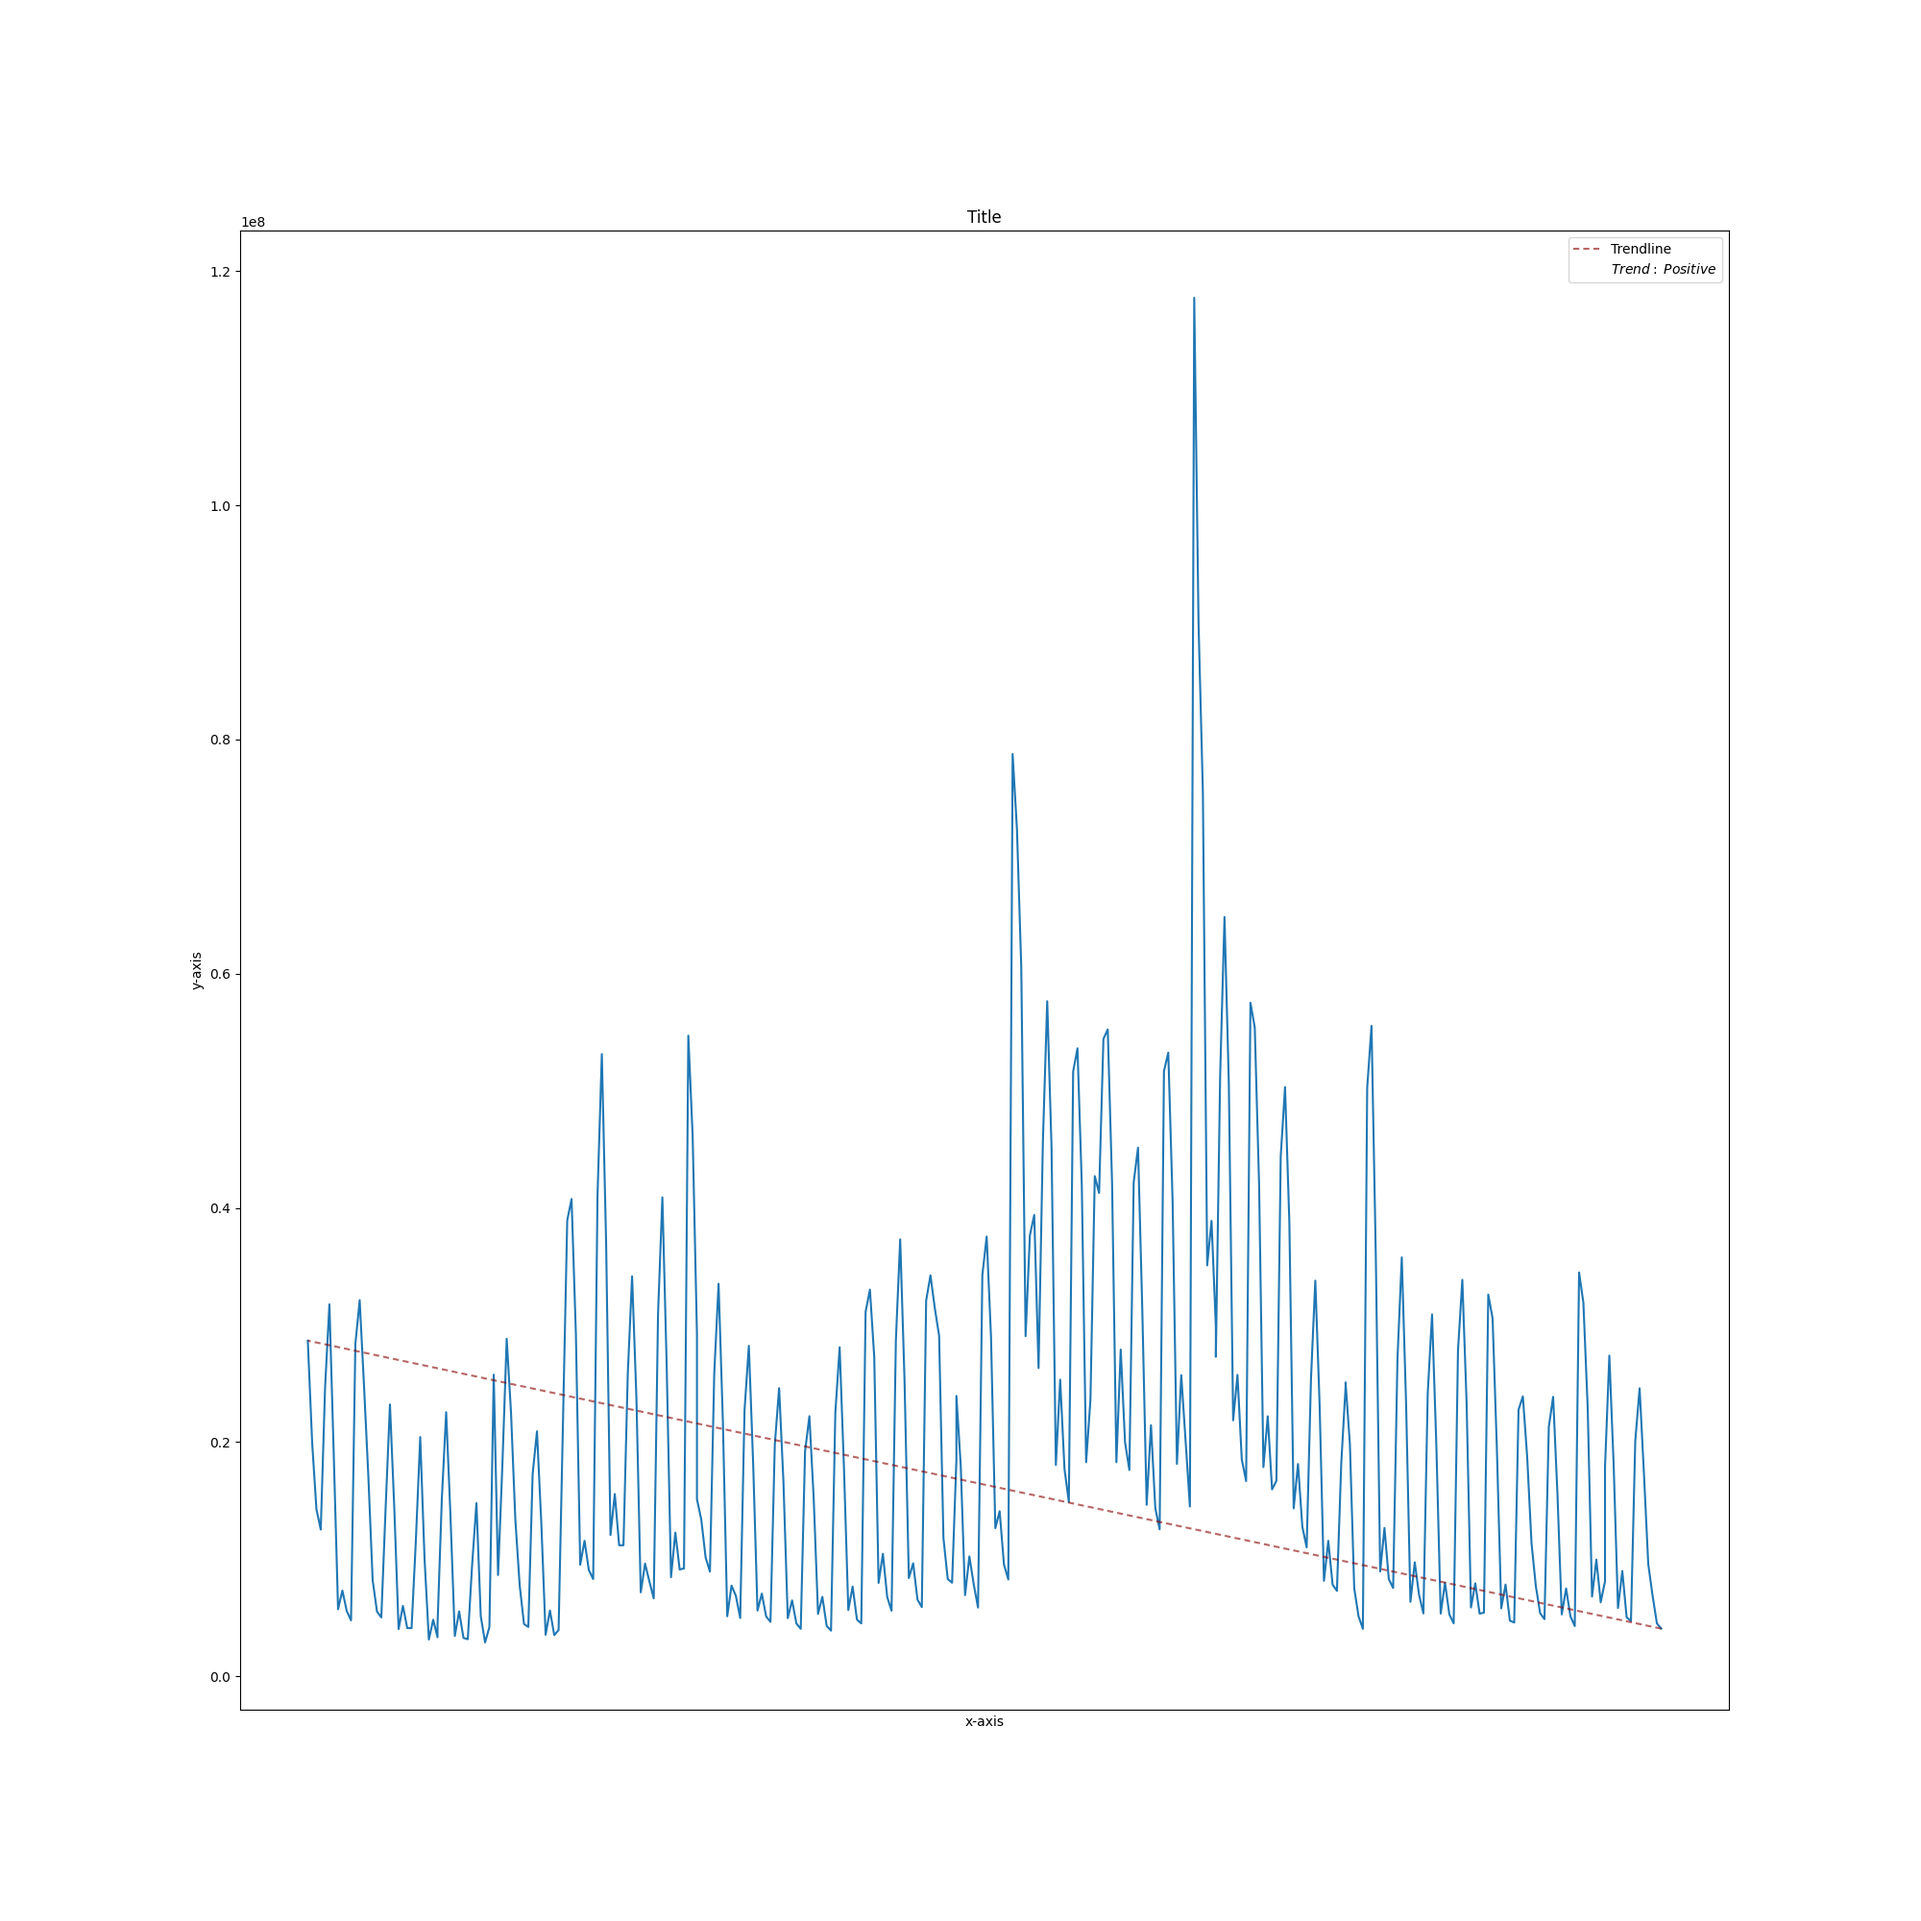
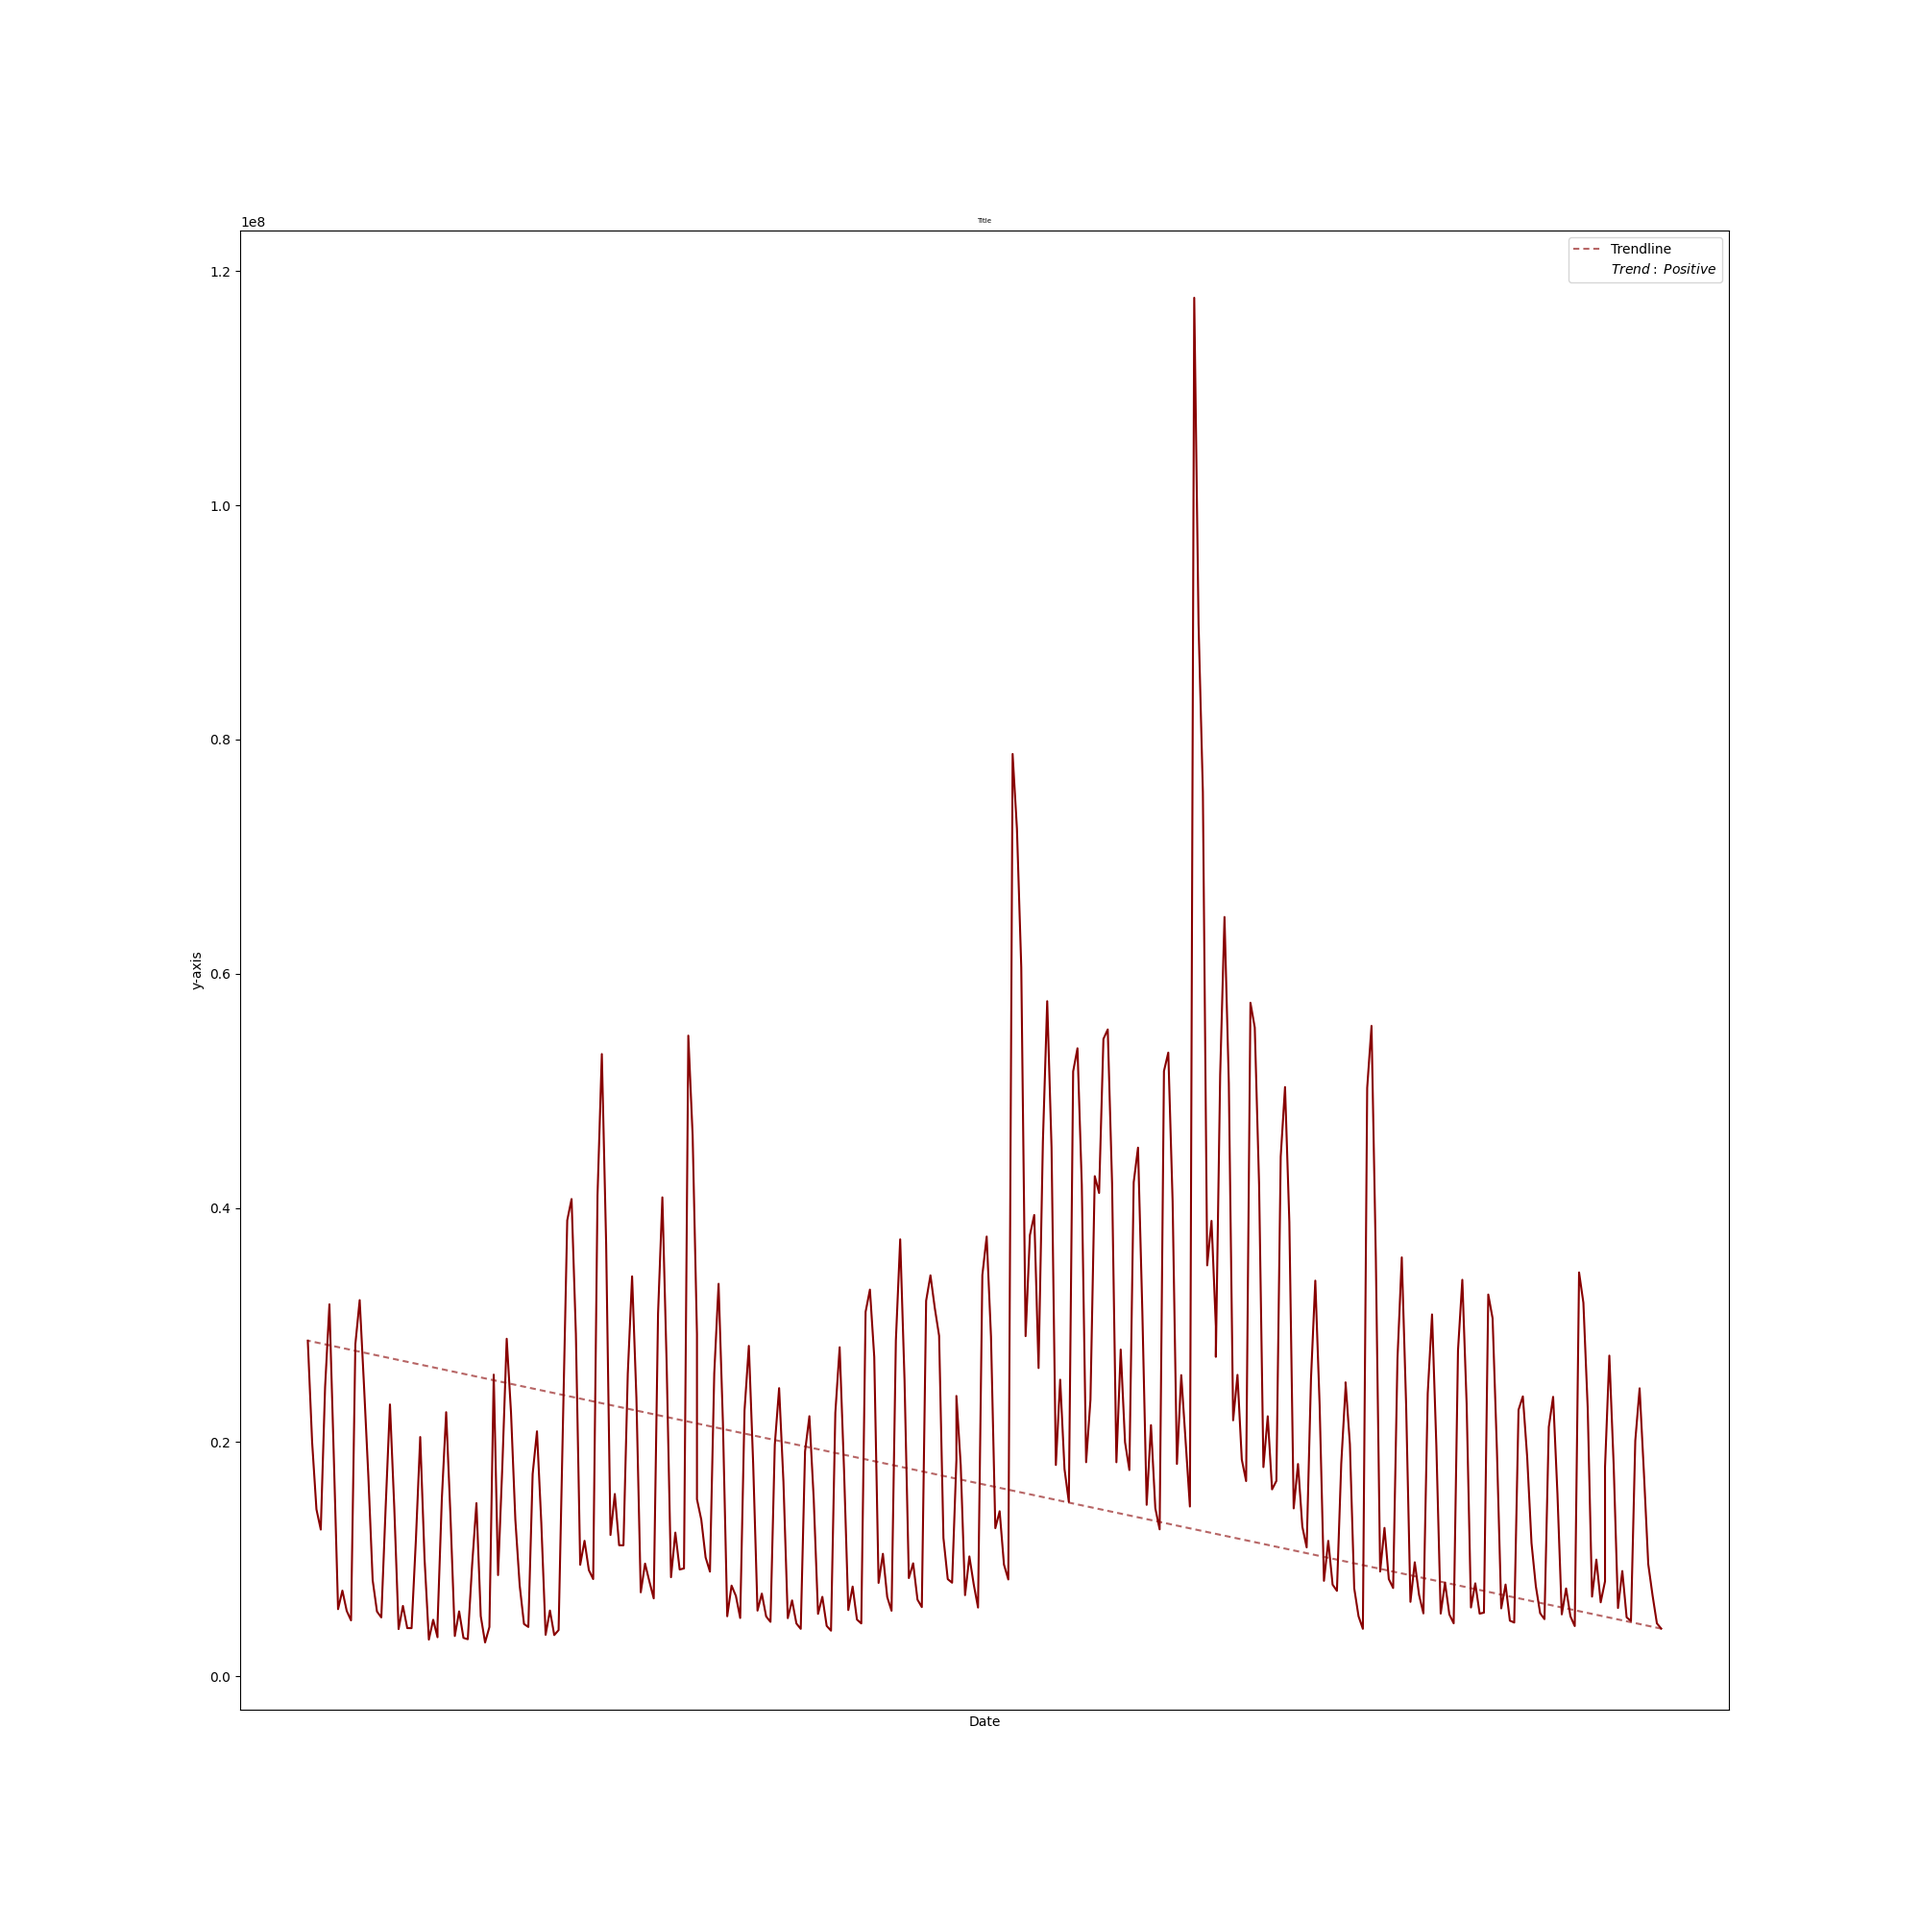
Done

Changed region(s): [[0.155, 0.465, 0.868, 0.868]]

diff --git a/templates/data_analyzer.html b/templates/data_analyzer.html
@@ -18,16 +18,14 @@
                 <button class="button" height=100% width=2*height id="submitButton" type="button">Submit</button>
             </div>
             </div>
-            <script>
+            <<script>
                 document.getElementById('submitButton').addEventListener('click', () => {
                     const inputField = document.getElementById('URL');
-                    const URL = inputField.value.trim(); // Get and trim input value
-
+                    const URL = inputField.value.trim(); 
                     if (URL === "") {
-                        alert("No value has been entered");
+                        alert("No value has been entered.");
                         return;
                     }
-
                     fetch('/store', {
                         method: 'POST',
                         headers: {
@@ -35,35 +33,37 @@
                         },
                         body: JSON.stringify({ value: URL }),
                     })
-                    .then(response => response.json())
-                    .then(data => {
-                        if (data.graph_1 && data.graph_2 && data.graph_3) {
-                            document.querySelector('.column1 img').src = data.graph_1;
-                            document.querySelector('.column2 img').src = data.graph_2;
-                            document.querySelector('.column3 img').src = data.graph_3;
-                            inputField.value = ''; // Clear input field
-                        } else {
-                            alert("Error generating graphs");
-                        }
-                    })
-                    .catch(error => {
-                        console.error("Error:", error);
-                        alert("An error occurred while processing the request.");
-                    });
+                        .then(response => response.json())
+                        .then(data => {
+                            if (data.graph_1 && data.graph_2 && data.graph_3) {
+                                const timestamp = new Date().getTime(); // Cache-busting timestamp
+                                document.querySelector('.column1 img').src = data.graph_1 + '?t=' + timestamp;
+                                document.querySelector('.column2 img').src = data.graph_2 + '?t=' + timestamp;
+                                document.querySelector('.column3 img').src = data.graph_3 + '?t=' + timestamp;
+            
+                                inputField.value = ''; 
+                            } else {
+                                alert("Error generating graphs. Please try again.");
+                            }
+                        })
+                        .catch(error => {
+                            console.error("Error:", error);
+                            alert("An error occurred while processing the request. Please check your URL or try again later.");
+                        });
                 });
             </script>
 
             <div class="row">
                 <div class="column1">
-                    <h2 class="datatitles" style="font-size: 35px">Table 1</h2>
+                    <h2 class="datatitles" style="font-size: 35px">Line Graph</h2>
                     <img class="data" width=90% height=width src="{{ url_for('static', filename='images/placeholder.jpg') }}">
                 </div>
                 <div class="column2">
-                    <h2 class="datatitles" style="font-size: 35px">Table 2</h2>
+                    <h2 class="datatitles" style="font-size: 35px">Pie Chart</h2>
                     <img class="data" width=90% height=width src="{{ url_for('static', filename='images/placeholder.jpg') }}">
                 </div>
                 <div class="column3">
-                    <h2 class="datatitles" style="font-size: 35px">Table 3</h2>
+                    <h2 class="datatitles" style="font-size: 35px">Scatter Plot</h2>
                     <img class="data" width=90% height=width src="{{ url_for('static', filename='images/placeholder.jpg') }}">
                 </div>
             </div>

diff --git a/graph_maker.py b/graph_maker.py
@@ -4,6 +4,14 @@ from data_analysis import data
 mydict = {"Jan": 1, "Feb": 2, "Mar": 3, "Apr": 4, "May": 5, "Jun": 6, 
           "Jul": 7, "Aug": 8, "Sep": 9, "Oct": 10, "Nov": 11, "Dec": 12}
 
+import os
+
+def clear_old_graphs():
+    folder = "static/images/"
+    for file_name in os.listdir(folder):
+        if file_name.startswith("graph_") and file_name.endswith(".png"):
+            os.remove(os.path.join(folder, file_name))
+
 def trends(pList): # assumes that you have a list of percentages (like apples/farm) and tells you if the trend is positive, negative or "Stable" (not sure if thats the right word)
     n=(len(pList))-1
     if pList[n] > pList[0]:
@@ -18,14 +26,19 @@ def trends(pList): # assumes that you have a list of percentages (like apples/fa
 def analysis_1(np,plt,numDict,yearList,graph_title="Money x Time",x_title="Date",y_title=""): #assumes that you have a dictionary with the two things you want to compare [i.e apples(value) per farm (key)] LISTS MUST BE PROPORTIONAL!!
     monthsAsNumsList = []
     monthslist = list(numDict.keys())
-    for month in monthslist:
-        month = str(month)
-        month = month.split(" ")
-        shortMonth = month[0]    
-        num =int(month[1])
-        monthsAsNumsList.append(mydict[shortMonth] * 30 + num)
-    x1=monthsAsNumsList
-        
+    try:
+        for month in monthslist:
+            month = str(month)
+            month = month.split(" ")
+            shortMonth = month[0]    
+            num =int(month[1])
+            monthsAsNumsList.append(mydict[shortMonth] * 30 + num)
+        x1=monthsAsNumsList
+    except:
+        newlist = []
+        for year in yearList:
+            newlist.append(int(year))
+        x1 = newlist
     pDict=dict()
     pList=[]
     yearCounter=0
@@ -38,9 +51,10 @@ def analysis_1(np,plt,numDict,yearList,graph_title="Money x Time",x_title="Date"
     y1=[]
     for value in pDict.values():
         y1.append(value)
+    
     change_x=(x1[1]-x1[0])
     plt.figure(figsize=(20, 20))
-    plt.plot(x1,y1)
+    plt.plot(x1,y1, color=((120/225),0,0,1))
     x2=[x1[0],x1[(len(x1))-1]] 
     y2=[y1[0],y1[(len(x1))-1]] 
     plt.plot(x2, y2, linestyle='-', color=((120/225),0,0,0.6), dashes=[3, 2], label="Trendline")
@@ -48,16 +62,16 @@ def analysis_1(np,plt,numDict,yearList,graph_title="Money x Time",x_title="Date"
 
     plt.legend()
     plt.xticks(np.arange(x1[0],(x1[len(x1)-1]+change_x), 1.0))
-    plt.xlabel(x_title)
-    plt.ylabel(y_title)
-    plt.title(graph_title)
+    plt.xlabel(x_title, fontsize=10)
+    plt.ylabel(y_title, fontsize=10)
+    plt.title(graph_title, fontsize=5)
     
 
     final_plot=plt.savefig("static/images/graph_1.png", transparent=False)
     return
 #-----------------------------------------------
 #Table 2 GOOD!!
-def analysis_2(plt,category,Chart_title="Title"): #assuming the category is individual and in a list
+def analysis_2(np,plt,category,Chart_title="Title"): #assuming the category is individual and in a list
     petDict={}
     petDict_percentages={}
     animal_list=[]
@@ -74,31 +88,41 @@ def analysis_2(plt,category,Chart_title="Title"): #assuming the category is indi
         animal_list.append(single_animal)
         slices=percentage_list
 
-    colors=[((120/225),0,0), ((193/225),(18/225),(31/225)), (0.98, 0.88, 0.20), (0,(48/225),(73/225)), ((102/225),(155/225),(188/225))]
+    colors=plt.cm.Blues(np.linspace(0,1,10))
 
     plt.cla()
     plt.pie(slices, labels=animal_list, colors=colors, startangle=90, radius=1.2, autopct="%1.1f%%")
     plt.legend(bbox_to_anchor=(1.05, 1.0),loc="upper left")
-    plt.title(Chart_title)
-    final_plot=plt.savefig("static/images/graph_2.png",transparent=False)
+    final_plot=plt.savefig("static/images/graph_2.png",transparent=True)
     return    
 #------------------------------------------------------------
 #table 3:
-def analysis_3(plt,x_list,y_list,Chart_title,x_title,y_title):
+def analysis_3(plt, x_list, y_list, chart_title, x_title, y_title):
     plt.figure(figsize=(20, 20))
     plt.cla()
     plt.clf()
-    plt.plot(x_list,y_list, color=(0.98, 0.88, 0.20), linestyle='dashed', linewidth=1.5, marker='o', markerfacecolor=((102/225),(155/225),(188/225)), markersize=8)
-    plt.title(Chart_title)
-    plt.xlabel(x_title)
-    plt.ylabel(y_title)
-    final_plot=plt.savefig("static/images/graph_3.png",transparent=False)
-    return
+    plt.plot(
+        x_list, y_list,
+        color=(0.98, 0.88, 0.20),  
+        linestyle='dashed', 
+        linewidth=1.5,  
+        marker='o', 
+        markerfacecolor=(102/255, 155/255, 188/255), 
+        markersize=8  
+    )
+    plt.gca().invert_xaxis()
+    plt.title(chart_title, fontsize=24)  
+    plt.xlabel(x_title, fontsize=16)
+    plt.ylabel(y_title, fontsize=16)
+    output_path = "static/images/graph_3.png"
+    plt.savefig(output_path, transparent=False)
 
 
 def create_graphs():
+    clear_old_graphs()
     import matplotlib.pyplot as plt #NECESSARY
     import numpy as np #NECESSARY
+    from cycler import cycler #this doesnt work idk why
     
     temp = {}
     get_list = data()
@@ -109,21 +133,23 @@ def create_graphs():
     
     yearList=list(temp.keys())
     graph_title1="Title"
-    x_title1="x-axis"
+    x_title1="Date"
     y_title1="y-axis"
     analysis_1(np,plt,numDict,yearList,graph_title1,x_title1,y_title1)
     """np AND plt are NECESSARY and MUST STAY LIKE THAT | numDict compares two values that you want a value1 per value 2 for | rest are titles for graphs """
     
     category=title_lst
     graph_title2="Title"
-    analysis_2(plt,category,graph_title2)
+    analysis_2(np,plt,category,graph_title2)
     """ plt is NECESSARY and MUST STAY LIKE THAT to make a graph | category is a list[] | title2 is just the title u want for graph2"""
     
     x_list=temp.keys()
     y_list=temp.values()
     graph_title3="Title"
-    x_title3="x-axis"
-    y_title3="y-axis"
+    x_title3="Date"
+    y_title3="Money"
+    x_list = list(x_list)
+    x_list.reverse()
     analysis_3(plt,x_list,y_list,graph_title3,x_title3,y_title3)
     """ plt is NECESSARY and MUST STAY LIKE THAT to make a graph | everything else is actually so free"""
     return ["./static/images/graph_1.png", "./static/images/graph_2.png", "./static/images/graph_3.png"]

diff --git a/app.py b/app.py
@@ -1,4 +1,4 @@
-from flask import Flask, render_template, request, jsonify
+from flask import Flask, render_template, request, jsonify, session
 from flask_cors import CORS
 import subprocess
 import os
@@ -7,6 +7,7 @@ import matplotlib
 matplotlib.use('Agg')
 
 app = Flask(__name__)
+app.secret_key = 'key'
 CORS(app)
 
 @app.route("/")
@@ -15,11 +16,10 @@ def main():
 
 @app.route('/store', methods=['POST'])
 def store():
-    global stored_url
     data = request.get_json()
     URL = data.get('value')
     print(URL)
-    stored_url = URL
+    session['stored_url'] = URL
     subprocess.run(['python3', 'scrappy/table_spider.py', URL], capture_output=True, text=True)
     
     graph_output_files = create_graphs()
@@ -32,7 +32,8 @@ def store():
 
 @app.route('/get_url')
 def get_url():
-    return jsonify(url=stored_url)
+    url = session.get('stored_url', None)
+    return jsonify(url=url)
 
 if __name__ == '__main__':
     app.run(debug=True)
